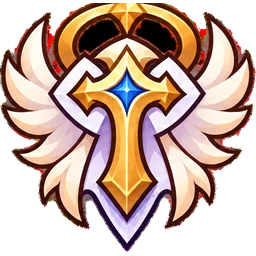
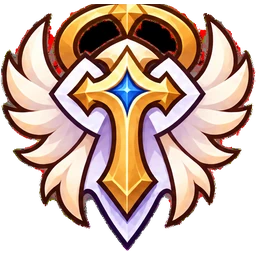
Lobby: centre job emblems in the profile circle (#31)
Claude-Session: https://claude.ai/code/session_01EHtL1CFKGanEfFGi5Rf8As

diff --git a/lobby/index.html b/lobby/index.html
@@ -113,10 +113,10 @@ button, input { font: inherit; color: inherit; }
 #prof { position: absolute; z-index: 3; left: 4px; top: 4px; width: 646px; height: 282px; border: 0; padding: 0; cursor: pointer; background: none; pointer-events: none; }
 #prof .pf > * { pointer-events: auto; } /* only the drawn parts take clicks, so the tower under the frame stays clickable */
 #prof .pf { position: absolute; left: 0; top: 0; width: 1900px; height: 828px; transform: scale(.34); transform-origin: 0 0;
-  background: url("img/prof-frame.webp?v=1") 0 0 / 100% 100% no-repeat; filter: drop-shadow(0 8px 12px rgba(0, 0, 0, .45)); }
-#prof .emb { position: absolute; left: 160px; top: 155px; width: 430px; height: 430px; object-fit: contain; }
-#prof .emb.cls { left: 137px; top: 132px; width: 476px; height: 476px; border-radius: 50%; object-fit: cover; object-position: 50% 8%; }
-#prof .ava { position: absolute; left: 137px; top: 132px; width: 476px; height: 476px; display: grid; place-items: center;
+  background: url("img/prof-frame.webp?v=2") 0 0 / 100% 100% no-repeat; filter: drop-shadow(0 8px 12px rgba(0, 0, 0, .45)); }
+#prof .emb { position: absolute; left: 158px; top: 149px; width: 430px; height: 430px; object-fit: contain; }
+#prof .emb.cls { left: 135px; top: 126px; width: 476px; height: 476px; border-radius: 50%; object-fit: cover; object-position: 50% 8%; }
+#prof .ava { position: absolute; left: 135px; top: 126px; width: 476px; height: 476px; display: grid; place-items: center;
   font-size: 220px; font-weight: 800; color: #f3e3c0; text-shadow: 0 6px 10px #000; }
 #prof .badge { position: absolute; left: 705px; top: 238px; width: 360px; height: 215px; display: grid; place-items: center; }
 #prof .badge img { width: 100%; height: 100%; object-fit: contain; filter: drop-shadow(0 6px 8px rgba(0, 0, 0, .5)); }
@@ -455,7 +455,7 @@ addEventListener('keydown', e => { if (e.key === 'Escape') for (const m of docum
 const HL = {"farm": {"box": [0, 617, 452, 329], "poly": "0.0% 53.5% 0.0% 62.6% 7.3% 68.4% 23.0% 75.1% 28.3% 79.6% 35.6% 83.0% 41.4% 88.1% 54.4% 92.7% 63.3% 91.5% 73.7% 84.2% 77.7% 84.2% 80.3% 86.6% 82.5% 86.6% 90.7% 81.2% 91.4% 75.4% 94.7% 71.7% 94.2% 66.6% 89.2% 63.2% 88.5% 54.4% 86.7% 48.6% 84.7% 48.6% 80.3% 44.7% 68.6% 40.7% 66.2% 37.1% 60.6% 35.0% 54.4% 29.2% 51.5% 29.2% 48.0% 36.2% 46.0% 36.2% 43.4% 31.9% 36.1% 27.7% 35.8% 24.0% 42.7% 14.0% 42.7% 10.6% 39.6% 7.3% 36.7% 7.6% 34.3% 15.5% 31.2% 21.3% 25.4% 21.0% 19.5% 14.3% 16.2% 14.3% 14.6% 22.8% 20.6% 28.3% 18.8% 48.0% 16.6% 48.3% 16.2% 45.6% 9.7% 46.8% 9.5% 42.6% 7.3% 42.6% 6.2% 44.1% 5.8% 51.1% 3.3% 53.5%"}, "tower": {"box": [226, 0, 355, 437], "poly": "59.2% 2.1% 56.3% 2.1% 51.3% 7.8% 48.2% 7.8% 48.7% 22.0% 45.9% 22.2% 44.2% 19.7% 41.4% 19.7% 39.7% 22.2% 40.8% 30.0% 35.2% 30.2% 35.8% 41.0% 38.0% 46.7% 41.7% 46.9% 43.7% 49.0% 42.5% 52.6% 37.2% 53.3% 35.5% 55.8% 35.8% 62.0% 32.1% 65.4% 29.9% 65.4% 29.9% 60.0% 25.9% 59.7% 25.4% 64.8% 20.8% 68.9% 14.9% 69.3% 13.0% 68.2% 8.5% 68.0% 6.8% 69.1% 7.3% 78.9% 8.5% 80.5% 26.8% 86.3% 30.7% 86.5% 35.8% 89.2% 44.8% 90.4% 48.7% 92.0% 50.7% 94.5% 54.6% 94.3% 57.2% 91.3% 63.7% 91.1% 71.3% 88.1% 83.4% 85.8% 83.7% 80.3% 87.6% 77.8% 91.8% 77.8% 93.2% 74.1% 93.2% 69.6% 87.9% 66.6% 88.5% 60.4% 83.9% 60.4% 84.2% 65.2% 81.7% 65.4% 77.5% 62.0% 77.2% 58.1% 75.2% 56.3% 74.6% 53.3% 69.6% 53.1% 71.0% 46.7% 78.6% 46.5% 80.0% 29.1% 74.4% 28.8% 73.5% 20.1% 70.7% 20.1% 69.9% 22.4% 66.8% 22.2% 66.2% 14.4% 67.3% 13.5% 67.3% 7.6% 64.2% 7.1%"}, "wedding": {"box": [451, 232, 395, 361], "poly": "38.0% 6.6% 36.2% 21.6% 34.2% 23.8% 31.4% 23.8% 30.9% 29.4% 27.8% 29.6% 25.3% 33.0% 20.3% 33.8% 19.7% 44.6% 17.7% 44.9% 15.4% 47.6% 16.5% 54.3% 14.9% 56.0% 11.4% 56.0% 6.1% 62.3% 6.1% 65.1% 8.9% 66.8% 8.9% 70.6% 14.7% 73.4% 19.5% 73.4% 20.0% 76.2% 29.6% 79.8% 35.7% 84.5% 44.1% 88.6% 47.3% 88.6% 57.5% 83.9% 67.1% 83.1% 77.2% 93.1% 81.3% 93.4% 86.8% 91.4% 88.1% 90.0% 88.1% 86.1% 83.8% 80.6% 83.8% 77.3% 92.4% 74.2% 93.7% 70.9% 93.9% 60.9% 93.2% 59.6% 88.1% 59.0% 85.8% 50.4% 83.8% 47.1% 83.0% 41.3% 77.7% 39.9% 77.2% 26.9% 73.9% 26.6% 73.7% 23.8% 70.6% 23.5% 72.2% 16.3% 67.8% 15.5% 66.3% 13.3% 66.1% 8.3% 63.5% 8.3% 63.3% 10.0% 60.8% 10.0% 60.0% 12.5% 57.0% 12.5% 59.0% 23.5% 56.2% 23.8% 54.7% 19.9% 52.2% 19.9% 51.9% 18.0% 41.0% 19.1% 40.8% 11.6% 43.3% 11.1% 43.5% 7.5%"}, "stadium": {"box": [772, 204, 381, 313], "poly": "8.1% 24.6% 8.1% 41.2% 10.0% 50.8% 8.9% 62.9% 6.3% 63.6% 6.3% 66.8% 8.7% 74.8% 12.1% 74.8% 14.7% 77.3% 15.2% 84.0% 30.4% 92.0% 67.5% 92.0% 76.1% 88.8% 81.6% 83.4% 87.9% 80.8% 93.7% 74.4% 91.3% 52.4% 89.8% 47.9% 86.1% 47.6% 86.4% 40.3% 87.9% 39.6% 88.2% 36.7% 91.3% 36.4% 91.1% 30.0% 89.0% 29.1% 87.9% 20.4% 85.0% 20.4% 84.5% 23.6% 82.2% 24.0% 77.4% 19.5% 76.6% 10.9% 74.0% 10.9% 71.7% 18.2% 69.3% 18.5% 66.7% 16.6% 55.1% 15.3% 53.8% 13.1% 53.8% 8.6% 50.7% 8.0% 48.6% 15.3% 43.0% 16.6% 37.8% 15.7% 36.7% 7.7% 33.9% 7.7% 32.8% 17.3% 23.4% 18.5% 22.3% 13.4% 19.4% 13.4% 17.8% 23.0% 15.0% 24.9%"}, "guild": {"box": [1141, 227, 363, 315], "poly": "10.7% 33.7% 11.0% 53.3% 8.8% 56.5% 9.4% 71.1% 6.6% 78.7% 6.9% 84.8% 10.2% 87.9% 25.3% 88.3% 34.4% 92.4% 38.6% 92.1% 41.3% 89.5% 57.9% 90.8% 63.1% 87.9% 76.6% 90.2% 91.5% 82.2% 93.1% 80.0% 92.0% 61.6% 89.5% 57.8% 90.6% 40.6% 85.4% 35.9% 82.6% 30.2% 76.9% 28.6% 74.7% 21.6% 70.2% 20.6% 67.2% 16.8% 46.8% 17.1% 46.3% 12.7% 43.8% 10.2% 36.9% 7.6% 31.1% 8.3% 26.7% 12.7% 26.7% 22.2% 17.4% 23.8%"}, "dungeon": {"box": [1510, 120, 410, 366], "poly": "99.8% 32.0% 98.5% 31.7% 95.9% 27.0% 91.5% 27.0% 89.3% 25.7% 82.4% 15.8% 79.8% 15.8% 79.5% 16.9% 74.6% 15.8% 65.6% 6.6% 62.9% 6.6% 61.2% 12.6% 54.9% 11.5% 53.4% 9.3% 49.3% 9.8% 44.9% 17.5% 44.4% 20.8% 42.4% 20.8% 40.0% 15.8% 37.3% 15.8% 35.6% 20.8% 33.7% 22.4% 32.2% 28.1% 30.0% 27.9% 30.0% 22.1% 27.1% 22.7% 22.9% 46.4% 19.3% 52.7% 17.6% 58.7% 12.9% 60.7% 11.0% 65.8% 6.1% 65.8% 6.1% 77.6% 15.9% 79.2% 20.0% 82.8% 23.7% 83.3% 24.6% 87.2% 27.6% 89.6% 32.7% 91.3% 38.5% 91.3% 40.2% 89.6% 54.4% 92.1% 54.6% 86.1% 56.8% 86.1% 62.7% 92.9% 72.9% 93.4% 80.5% 88.3% 86.3% 89.6% 90.2% 84.7% 94.4% 83.9% 97.8% 80.6% 99.8% 80.3%"}, "smith": {"box": [24, 387, 566, 316], "poly": "4.2% 57.6% 4.6% 64.9% 6.7% 68.4% 19.6% 75.3% 22.3% 78.2% 27.0% 76.9% 31.4% 84.2% 43.8% 92.4% 52.7% 90.2% 62.7% 83.2% 73.7% 79.4% 85.7% 70.6% 92.9% 68.0% 95.8% 64.2% 95.6% 60.1% 92.8% 57.3% 92.2% 55.1% 87.8% 50.3% 87.6% 48.7% 83.9% 48.7% 80.2% 42.1% 79.3% 27.5% 72.8% 22.8% 59.4% 17.1% 59.0% 20.6% 60.8% 24.1% 60.6% 27.8% 53.0% 30.1% 50.7% 22.2% 45.9% 22.8% 44.2% 20.3% 43.6% 11.7% 42.8% 9.8% 39.2% 7.6% 33.4% 9.2% 33.2% 17.4% 27.9% 16.1% 25.4% 17.1% 24.9% 23.4% 22.3% 27.5% 22.1% 33.2% 19.8% 32.9% 19.8% 28.8% 15.4% 28.8% 14.3% 34.2% 11.3% 38.3% 12.0% 43.7% 11.3% 53.2% 7.6% 52.8%"}, "brewery": {"box": [1235, 494, 456, 285], "poly": "94.7% 70.2% 93.9% 50.5% 82.5% 37.9% 78.9% 28.1% 73.2% 26.7% 71.1% 19.6% 71.7% 10.5% 68.4% 8.4% 60.3% 9.8% 60.1% 15.8% 51.5% 11.9% 50.4% 16.1% 47.8% 18.9% 45.2% 18.6% 42.5% 15.4% 23.9% 13.3% 14.9% 26.3% 14.7% 35.4% 16.2% 48.1% 14.7% 49.8% 10.5% 49.8% 10.1% 52.6% 7.2% 54.0% 5.3% 57.2% 5.3% 61.8% 16.7% 63.5% 28.3% 74.7% 32.2% 75.8% 55.9% 91.6% 60.1% 90.5% 62.9% 87.4% 72.6% 82.5% 80.5% 80.7%"}, "fame": {"box": [1550, 485, 370, 431], "poly": "62.7% 5.6% 62.7% 10.4% 59.2% 11.1% 57.8% 15.1% 55.1% 15.5% 53.0% 21.3% 48.1% 22.3% 46.2% 23.9% 45.7% 32.0% 47.8% 45.2% 47.0% 52.2% 45.4% 53.1% 41.4% 52.7% 41.6% 46.6% 40.0% 44.5% 40.0% 41.3% 39.2% 40.4% 35.7% 40.4% 33.5% 43.4% 33.2% 54.8% 28.6% 57.5% 19.5% 59.9% 12.2% 63.3% 8.4% 63.6% 6.5% 65.7% 6.5% 69.4% 7.8% 73.5% 23.8% 80.5% 34.6% 82.8% 35.9% 85.2% 47.6% 88.9% 53.8% 92.1% 64.3% 94.4% 77.0% 94.4% 84.1% 90.5% 91.1% 88.9% 95.4% 84.7% 99.7% 83.5% 99.7% 61.3% 97.6% 60.8% 94.6% 56.8% 93.8% 45.5% 90.3% 42.0% 87.0% 42.5% 86.8% 52.9% 85.9% 54.8% 83.5% 54.5% 82.2% 47.8% 83.8% 46.2% 83.8% 43.9% 82.2% 43.2% 82.4% 28.5% 77.8% 28.3% 79.2% 17.9% 74.6% 17.6% 73.0% 16.2% 72.4% 13.2% 69.7% 12.8% 69.5% 7.9% 67.6% 7.9% 66.2% 5.6%"}, "auction": {"box": [453, 668, 511, 309], "poly": "95.3% 34.3% 89.0% 32.0% 84.5% 27.5% 82.2% 26.9% 82.4% 19.1% 78.5% 18.1% 75.0% 19.4% 74.6% 13.3% 72.4% 13.3% 71.4% 14.6% 71.2% 17.8% 68.9% 18.1% 68.1% 11.3% 59.3% 13.3% 57.1% 10.4% 57.1% 8.4% 53.0% 7.8% 53.0% 9.7% 50.3% 11.7% 47.2% 19.7% 42.1% 20.4% 40.3% 19.1% 38.9% 15.5% 38.7% 8.4% 34.6% 8.1% 33.9% 12.3% 29.7% 15.9% 29.0% 22.3% 31.7% 22.7% 32.9% 35.0% 31.1% 35.0% 30.9% 33.7% 25.4% 35.0% 25.2% 32.0% 23.5% 31.4% 23.5% 26.2% 21.7% 26.2% 21.3% 23.6% 19.4% 23.6% 18.2% 28.5% 15.5% 28.8% 14.5% 30.7% 13.9% 36.9% 4.7% 36.6% 5.1% 42.1% 8.4% 42.4% 7.6% 71.5% 9.4% 73.1% 14.3% 73.5% 20.4% 79.0% 26.4% 77.3% 29.0% 80.9% 35.2% 81.2% 37.8% 82.8% 38.9% 85.4% 44.6% 89.3% 55.2% 92.2% 59.9% 88.0% 62.0% 87.7% 63.6% 84.5% 66.1% 83.8% 66.3% 79.0% 65.0% 78.6% 65.0% 76.1% 61.3% 70.6% 61.3% 68.0% 59.3% 68.0% 59.1% 66.0% 54.0% 61.8% 54.0% 58.6% 61.6% 58.9% 61.8% 61.5% 65.6% 63.8% 67.1% 67.6% 71.6% 72.2% 72.8% 77.7% 81.4% 79.3% 91.2% 74.4% 94.1% 66.3% 94.1% 63.1% 92.4% 58.3% 92.4% 51.1% 94.1% 48.9%"}, "shop": {"box": [994, 694, 544, 333], "poly": "4.4% 67.6% 4.6% 75.1% 10.7% 75.4% 11.9% 76.6% 12.3% 80.5% 16.7% 81.4% 21.3% 85.0% 24.1% 85.0% 27.4% 80.8% 29.0% 80.8% 30.0% 88.3% 36.9% 90.1% 42.1% 89.8% 42.5% 88.3% 58.8% 88.9% 61.0% 90.1% 62.1% 92.8% 70.8% 91.0% 72.8% 87.4% 73.2% 80.8% 76.3% 82.6% 79.2% 82.3% 81.4% 79.3% 85.7% 76.6% 86.6% 74.5% 90.1% 74.5% 92.3% 72.4% 94.9% 72.4% 95.6% 70.6% 95.4% 64.3% 94.1% 64.0% 93.9% 61.3% 91.9% 59.2% 91.4% 50.8% 89.7% 50.8% 87.7% 47.1% 83.3% 48.0% 82.9% 45.0% 81.6% 44.7% 81.6% 40.5% 77.6% 40.2% 77.0% 39.0% 72.8% 40.5% 72.6% 39.0% 69.9% 39.0% 69.7% 42.9% 66.7% 42.9% 66.0% 37.5% 61.9% 38.7% 62.5% 24.3% 67.1% 24.3% 68.4% 21.0% 68.2% 15.6% 60.1% 16.2% 59.9% 10.5% 58.1% 7.5% 56.1% 7.5% 55.5% 9.9% 50.7% 9.6% 50.6% 7.2% 45.0% 8.7% 43.2% 12.0% 39.5% 11.1% 38.6% 16.2% 32.0% 16.5% 31.2% 19.8% 27.2% 24.6% 23.0% 24.0% 22.1% 33.0% 18.9% 33.0% 17.5% 29.1% 15.4% 29.1% 15.4% 36.6% 10.1% 39.0% 10.5% 49.2% 9.2% 52.0% 9.2% 55.9% 6.2% 56.2% 6.2% 64.3%"}};
 const SOON = 'เร็วๆ นี้';
 // bump when building art or HL shapes change, so a cached page never mixes old shapes with new pictures
-const ART_V = 24;
+const ART_V = 25;
 const BUILDINGS = [
   { k: 'tower', desc: 'สู้กับบอทระดับยาก ทดสอบฝีมือการเล็งและอ่านลมของคุณ', name: 'Endless Tower', th: 'หอคอยไร้สิ้นสุด', at: [425, 252], act: () => botModal('tower') },
   { k: 'wedding', desc: 'จับคู่กับคนพิเศษ แล้วจัดงานแต่งให้ทั้งเมืองรู้', name: 'Wedding Hall', th: SOON, at: [690, 408] },
